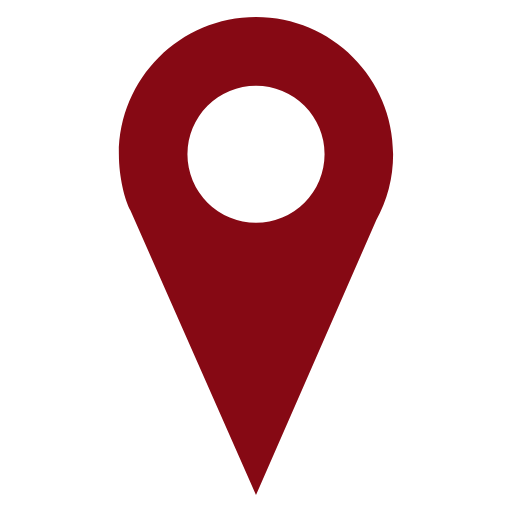
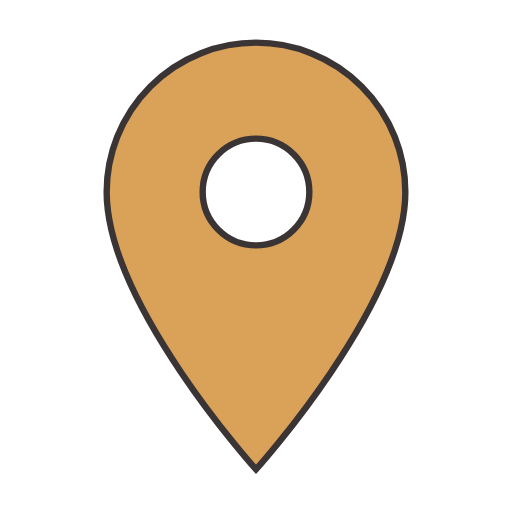
Fix: MapMarker.png color change

diff --git a/src/views/map/MapView.vue b/src/views/map/MapView.vue
@@ -99,32 +99,30 @@ import placeTypeMap from '@/composable/placeTypeMap';
 const googleMapsApiKey = import.meta.env.VITE_GOOGLE_MAPS_API_KEY;
 const myMapId = import.meta.env.VITE_MAP_ID;
 
-// --- Template Refs ---
-const mapContainer = ref(null); // 用於綁定地圖的 DOM 元素
+const mapContainer = ref(null);
 
-// --- useGoogleMaps Composable ---
 const {
   map,
   infoWindow,
-  loading: googleMapsLoading, // 地圖API載入狀態
-  isFetching, // 搜尋數據的載入狀態
+  loading: googleMapsLoading,
+  isFetching,
   loadGoogleMapsAPI,
   initMap,
   showInfoWindow,
   closeInfoWindow,
   panTo,
   setZoom,
-  displayBarsOnMap, // <-- 這個函式現在需要第二個參數
+  displayBarsOnMap,
   requestGeolocationPermission,
   getCurrentLocation: getMapCurrentLocation,
   getPlacePredictions,
-  searchAndDisplayPlaces, // 已優化多頁獲取
-  searchBarsInMapBounds, // 已優化多頁獲取
-  clearMarkers, // <-- 注意這裡，我們會直接使用這個函數
-  google: googleMapsInstance, // 暴露 Google Maps API 實例 (readonly shallowRef)
+  searchAndDisplayPlaces,
+  searchBarsInMapBounds,
+  clearMarkers,
+  google: googleMapsInstance,
   isReady,
-  formatBarInfoWindowContent, // <-- 新增：從 useGoogleMaps 導出 formatBarInfoWindowContent
-  getPlaceDetails, // <-- 新增：從 useGoogleMaps 導出 getPlaceDetails
+  formatBarInfoWindowContent,
+  getPlaceDetails,
 } = useGoogleMaps(mapContainer, {
   googleMapsApiKey: googleMapsApiKey,
   mapId: myMapId,
@@ -134,7 +132,6 @@ const {
   },
 });
 
-// --- 狀態管理 ---
 const isFilterPanelOpen = ref(false);
 const searchQuery = ref("");
 const suggestions = ref([]);
@@ -149,15 +146,14 @@ const currentFilters = ref({
   maxOpenMinute: 0,
   tags: [],
 });
-const selectedBar = ref(null); // 用於地圖資訊視窗和高亮
+const selectedBar = ref(null);
 const isBarDetailModalOpen = ref(false);
-const selectedBarForDetail = ref(null); // 用於 BarDetailModal
+const selectedBarForDetail = ref(null);
 const isLoading = ref(false);
-const googleBars = ref([]); // <-- 這個變數將是篩選的來源
-const mainBarForSearch = ref(null); // 專門存搜尋主酒吧
-const selectedTag = ref(null); // 新增：目前選中的標籤
+const googleBars = ref([]);
+const mainBarForSearch = ref(null);
+const selectedTag = ref(null);
 
-// --- Computed Properties ---
 const combinedLoading = computed(
   () => googleMapsLoading.value || isFetching.value || isLoading.value
 );
@@ -176,7 +172,6 @@ const filteredBars = computed(() => {
     "士林區",
   ];
 
-  // 地址過濾
   if (filters.address && filters.address !== "current_location") {
     if (Array.isArray(filters.address)) {
       if (filters.address.length > 0) {
@@ -189,7 +184,6 @@ const filteredBars = computed(() => {
     }
   }
 
-  // 標籤過濾 (包含區域標籤的特殊處理)
   if (filters.tags && filters.tags.length > 0) {
     const nonDistrictTags = filters.tags.filter(
       (tag) => !districtTagsList.includes(tag)
@@ -206,7 +200,6 @@ const filteredBars = computed(() => {
 
     if (selectedDistrictTagsFromTagsFilter.length > 0) {
       if (filters.address && filters.address !== "current_location") {
-        // 檢查是否有任何選定的區域標籤與地址篩選器匹配
         let addressArr = Array.isArray(filters.address) ? filters.address : [filters.address];
         const hasMatchingDistrict = selectedDistrictTagsFromTagsFilter.some(tag =>
         addressArr.some(addr => addr.includes(tag))
@@ -224,7 +217,6 @@ const filteredBars = computed(() => {
     }
   }
 
-  // 距離過濾 (需要確保 Google Maps geometry 庫已載入)
   if (map && typeof googleMapsInstance === 'function' && googleMapsInstance() && googleMapsInstance().maps && googleMapsInstance().maps.geometry && googleMapsInstance().maps.geometry.spherical) {
     const mapCenter = map.value.getCenter && map.value.getCenter();
     if (mapCenter) {
@@ -427,7 +419,6 @@ async function handleSearch() {
 
     const result = await searchAndDisplayPlaces(searchQuery.value);
     mainBars = result && result.results ? result.results : [];
-    // 若沒結果且屬於常見類型，fallback nearbySearch
     if ((!mainBars || mainBars.length === 0) && typeForNearby) {
       const google = googleMapsInstance.value;
       let center = null;
@@ -526,7 +517,6 @@ async function handleGetCurrentLocation() {
     const sidebarWidth = document.querySelector('.bar-list-sidebar')?.offsetWidth || 0;
     const currentLocation = await getMapCurrentLocation(sidebarWidth);
     if (currentLocation) {
-      // 以目前位置為中心搜尋附近酒吧
       const bars = await searchBarsInMapBounds(false);
       googleBars.value = bars;
     }
@@ -554,7 +544,6 @@ function toggleFilterPanel() {
 }
 
 async function handleBarSelected(bar) {
-  // 若 bar 已有 googleReviews，直接顯示；否則自動補抓詳細資料
   if (bar.place_id && (!bar.googleReviews || bar.googleReviews.length === 0)) {
     try {
       const detail = await getPlaceDetails(bar.place_id);
@@ -598,7 +587,6 @@ function handleToggleWishlist(barId) {
   if (barIndex > -1) {
     const updatedBar = { ...googleBars.value[barIndex] };
     updatedBar.isWishlisted = !updatedBar.isWishlisted;
-    // 替換陣列中的物件，以確保 Vue 偵測到變化
     googleBars.value.splice(barIndex, 1, updatedBar);
   }
   if (
@@ -673,7 +661,6 @@ onMounted(async () => {
     if (mapContainer.value) {
       await initMap();
       requestGeolocationPermission();
-      // 進入頁面自動取得目前位置並搜尋附近酒吧
       let gotLocation = false;
       try {
         const sidebarWidth = document.querySelector('.bar-list-sidebar')?.offsetWidth || 0;

diff --git a/src/components/map/BarDetailModal.vue b/src/components/map/BarDetailModal.vue
@@ -95,7 +95,6 @@
               <p>{{ bar.description || "暫無詳細介紹。" }}</p>
             </div>
 
-            <!-- 動態 Google 評論區塊 -->
             <div class="google-review-section">
               <h3>熱門評論</h3>
               <template v-if="bar.googleReviews && bar.googleReviews.length">
@@ -208,7 +207,6 @@ const currentImageIndex = ref(0);
 const defaultImage =
   "https://placehold.co/800x600/decdd5/860914?text=No+Image+Available";
 
-// 直接使用 window.google，因為 Google Maps API 已經載入到全域
 const google = computed(() => window.google && window.google.maps ? window.google.maps : null);
 
 const currentImage = computed(() => {
@@ -218,10 +216,8 @@ const currentImage = computed(() => {
   return props.bar.imageUrl || defaultImage;
 });
 
-// 計算屬性用於判斷當前營業狀態
 const currentOpenStatus = computed(() => {
   if (props.bar.opening_hours && google.value) {
-    // 確保 google 物件已載入且 opening_hours 存在
     return props.bar.opening_hours.isOpen()
       ? '<span style="color: green;">正在營業中</span>'
       : '<span style="color: red;">目前休息中</span>';
@@ -540,9 +536,9 @@ const getTagLabel = (tag) => {
   line-height: 1.6;
   color: #444;
 }
-/* 新增或修改 ul/li 樣式 */
+
 .opening-hours-detail ul {
-  list-style: none; /* 移除預設的列表樣式 */
+  list-style: none;
   padding: 0;
   margin: 5px 0 0 0;
 }
